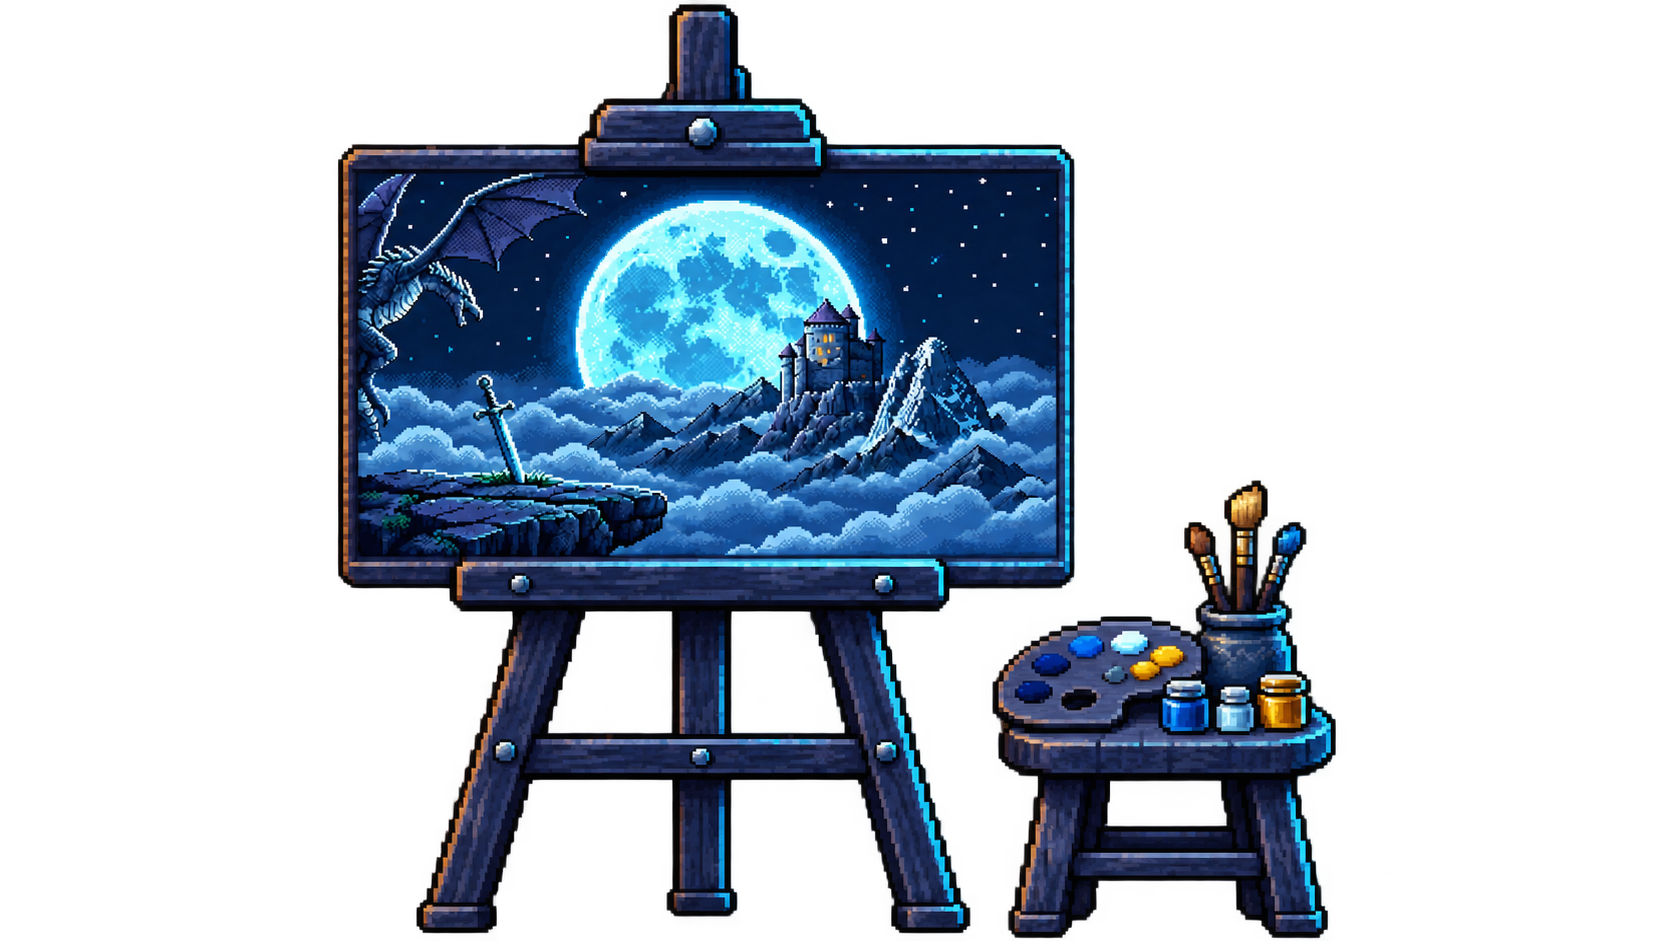
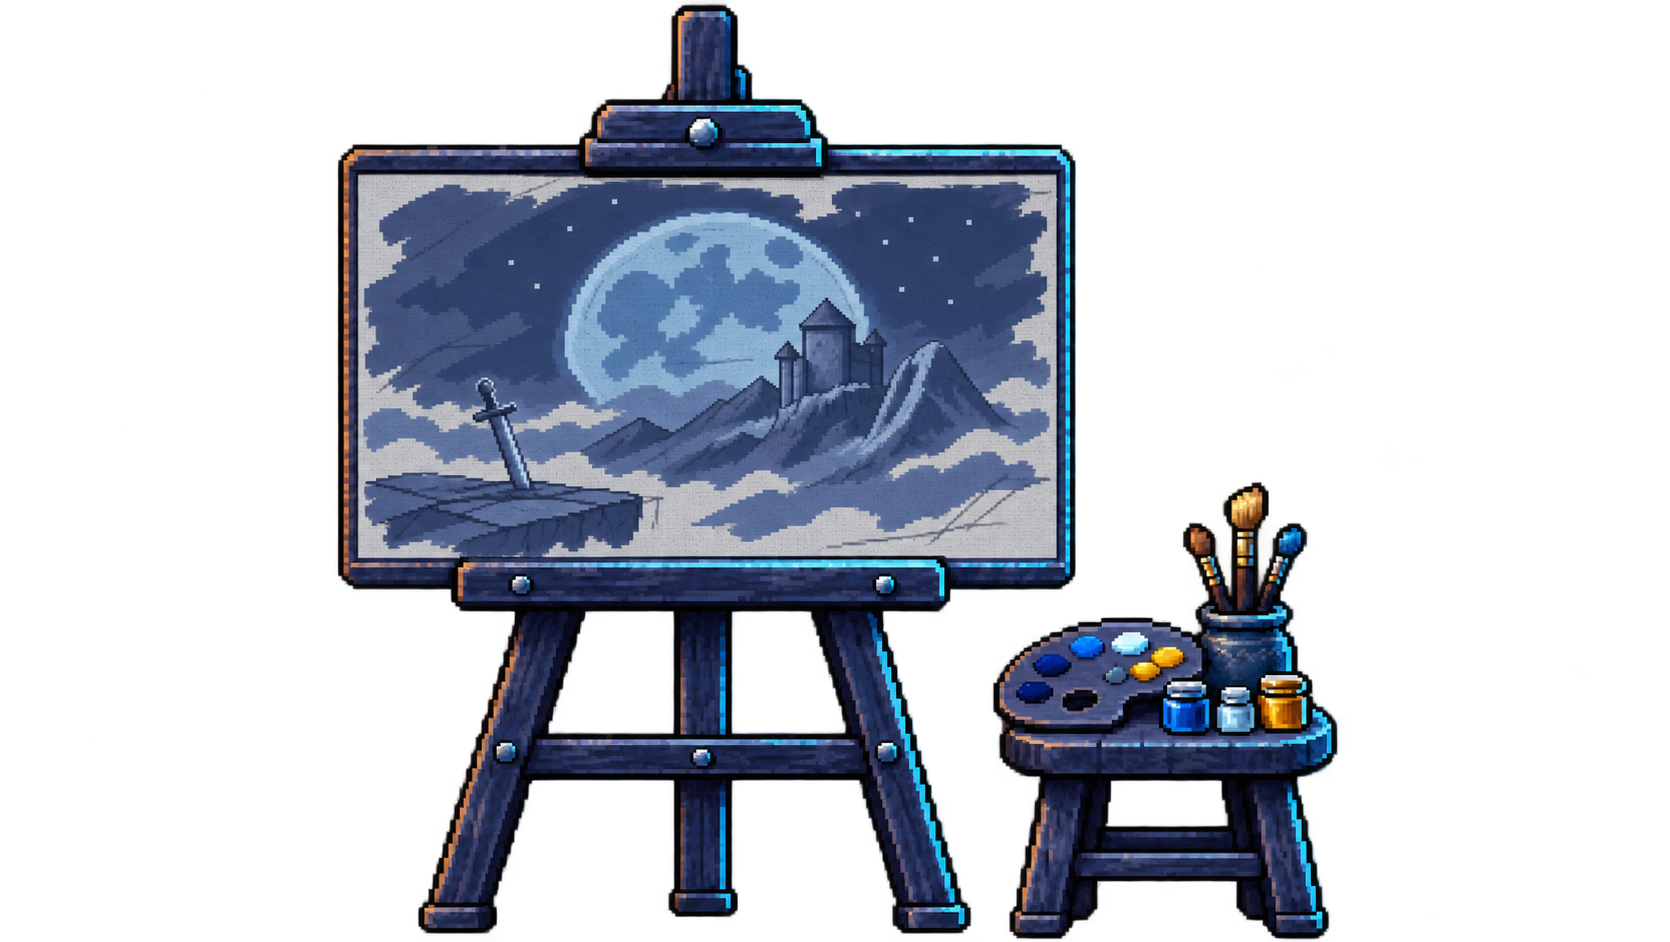
more props added

diff --git a/styles.css b/styles.css
@@ -321,11 +321,13 @@ canvas:focus-visible { outline: 3px solid #ffe092; outline-offset: -3px; }
   width: var(--balcony-width);
   aspect-ratio: 1672 / 1197;
   transform: translateX(-50%);
+  isolation: isolate;
 }
 .moonlit-balcony::before,
 .moonlit-balcony::after {
   content: "";
   position: absolute;
+  z-index: -1;
   bottom: 0;
   width: var(--edge-width);
   height: 100%;
@@ -370,6 +372,55 @@ canvas:focus-visible { outline: 3px solid #ffe092; outline-offset: -3px; }
   height: auto;
   image-rendering: pixelated;
   pointer-events: none;
+}
+.moonlit-furnishing {
+  position: absolute;
+  height: auto;
+  image-rendering: pixelated;
+  pointer-events: none;
+}
+.moonlit-lion-banner {
+  left: -11.90%;
+  top: 25.24%;
+  width: 13.20%;
+}
+.moonlit-ground-prop {
+  top: 76.2%;
+}
+.moonlit-ground-prop::before {
+  content: "";
+  position: absolute;
+  top: 0;
+  inset-inline: var(--shadow-inset);
+  aspect-ratio: 10;
+  transform: translateY(-50%);
+  background: radial-gradient(ellipse, #010616c9, transparent 72%);
+}
+.moonlit-ground-prop img {
+  position: absolute;
+  top: 0;
+  left: 0;
+  width: 100%;
+  height: auto;
+  transform: translateY(calc(-1 * var(--sprite-base)));
+}
+.moonlit-supply-chest {
+  --sprite-base: 87.9%;
+  --shadow-inset: 12%;
+  left: -11.54%;
+  width: 13.07%;
+}
+.moonlit-map-table {
+  --sprite-base: 98.6%;
+  --shadow-inset: 8%;
+  left: 59.54%;
+  width: 22.82%;
+}
+.moonlit-ivy-planter {
+  --sprite-base: 78.8%;
+  --shadow-inset: 22%;
+  left: 95.06%;
+  width: 18.38%;
 }
 .moonlit-scraps {
   position: absolute;
@@ -428,30 +479,47 @@ canvas:focus-visible { outline: 3px solid #ffe092; outline-offset: -3px; }
   pointer-events: none;
 }
 .moonlit-prop::before,
-.moonlit-prop::after {
-  content: "";
+.moonlit-prop-glow,
+.moonlit-prop-glow::before {
   position: absolute;
   inset: 0;
 }
 .moonlit-prop::before {
+  content: "";
   clip-path: var(--prop-silhouette);
   pointer-events: auto;
+  cursor: pointer;
 }
-.moonlit-prop::after {
+.moonlit-prop-glow {
+  pointer-events: none;
+  filter: drop-shadow(0 0 5px var(--glow-color)) drop-shadow(0 0 13px var(--glow-color));
+  opacity: .75;
+}
+.moonlit-prop-glow::before {
+  content: "";
   clip-path: var(--prop-highlight);
-  background: radial-gradient(ellipse at var(--glow-center), var(--glow-color), transparent 41%),
+  background: radial-gradient(ellipse at var(--glow-center), var(--glow-tint), transparent 41%),
     var(--prop-art) center / 100% 100% no-repeat;
-  filter: brightness(1.28);
-  opacity: 0;
-  transition: opacity 180ms ease-out;
+  filter: brightness(1.45);
+  transition: filter 180ms ease-out;
 }
-.moonlit-prop:is(:hover, :focus-visible)::after { opacity: 1; }
+.moonlit-prop:is(:hover, :focus-visible) .moonlit-prop-glow::before { filter: brightness(1.7); }
+@media (prefers-reduced-motion: no-preference) {
+  .moonlit-world[open] .moonlit-prop-glow {
+    animation: moonlit-prop-glow 2.8s ease-in-out var(--glow-delay, 0s) infinite;
+  }
+}
+@keyframes moonlit-prop-glow {
+  0%, 100% { opacity: .48; }
+  50% { opacity: 1; }
+}
 .moonlit-sketchbook {
   --prop-art: url("assets/moonlit/sketchbook-lectern.png");
   --prop-silhouette: polygon(32% 12%, 43% 10%, 78% 13%, 79% 19%, 68% 42%, 60% 47%, 58% 73%, 64% 82%, 65% 86%, 59% 90%, 31% 90%, 31% 83%, 39% 78%, 40% 49%, 33% 42%, 21% 40%, 21% 36%);
   --prop-highlight: polygon(37% 15%, 46% 14.7%, 53% 17%, 59% 15.4%, 68% 16.3%, 71% 17.4%, 68% 24%, 64% 35.5%, 53% 35.4%, 46% 36.3%, 42% 34.7%, 28% 34.5%, 30% 28%);
   --glow-center: 50% 25%;
-  --glow-color: #ffd68742;
+  --glow-color: #ffce70;
+  --glow-tint: #ffd68775;
   left: 24.3%;
   top: 76%;
   width: 12.1%;
@@ -463,7 +531,9 @@ canvas:focus-visible { outline: 3px solid #ffe092; outline-offset: -3px; }
   --prop-silhouette: polygon(20% 15%, 35% 15%, 35% 11%, 40% 10%, 40% 0%, 44% 0%, 45% 10%, 49% 11%, 50% 15%, 65% 15%, 65% 61%, 56% 64%, 58% 99%, 25% 99%, 29% 65%, 27% 64%, 27% 62%, 20% 62%);
   --prop-highlight: inset(18.2% 36.8% 40.8% 21.4%);
   --glow-center: 43% 36%;
-  --glow-color: #66d9ff40;
+  --glow-color: #62dfff;
+  --glow-tint: #66d9ff80;
+  --glow-delay: -1.4s;
   left: 36.5%;
   top: 77.4%;
   width: 24.2%;
@@ -472,14 +542,13 @@ canvas:focus-visible { outline: 3px solid #ffe092; outline-offset: -3px; }
   border: 0;
   transform: translate(-42.2%, -100%);
 }
-.moonlit-easel::before { cursor: pointer; }
 .moonlit-easel:focus-visible { outline: 2px solid #ffdaa1; outline-offset: -2px; }
 @media (max-aspect-ratio: 1/1) {
   .moonlit-sketchbook { left: calc(25vw - var(--balcony-left)); }
   .moonlit-easel { left: calc(61vw - var(--balcony-left)); }
 }
 @media (prefers-reduced-motion: reduce) {
-  .moonlit-prop::after { transition: none; }
+  .moonlit-prop-glow::before { transition: none; }
 }
 #moonlit-knight {
   position: absolute;

diff --git a/index.html b/index.html
@@ -73,12 +73,26 @@
         </div>
         <canvas id="moonlit-floor" width="1672" height="256" aria-hidden="true"></canvas>
         <img class="moonlit-carpet" src="assets/moonlit/balcony-carpet.png" width="2172" height="724" alt="">
+        <img class="moonlit-furnishing moonlit-lion-banner" src="assets/moonlit/lion-banner.png" width="1024" height="1536" alt="">
+        <div class="moonlit-furnishing moonlit-ground-prop moonlit-supply-chest">
+          <img src="assets/moonlit/supply-chest.png" width="1536" height="1024" alt="">
+        </div>
+        <div class="moonlit-furnishing moonlit-ground-prop moonlit-map-table">
+          <img src="assets/moonlit/mapmakers-table.png" width="1961" height="802" alt="">
+        </div>
+        <div class="moonlit-furnishing moonlit-ground-prop moonlit-ivy-planter">
+          <img src="assets/moonlit/ivy-planter.png" width="1536" height="1024" alt="">
+        </div>
         <button class="moonlit-scraps" type="button" aria-label="Walk to the scattered papers and view the castle reference assets" aria-haspopup="dialog">
           <span></span><span></span><span></span>
           <span></span><span></span><span></span>
         </button>
-        <div class="moonlit-prop moonlit-sketchbook" role="img" aria-label="Open castle sketchbook on a stone lectern"></div>
-        <button class="moonlit-prop moonlit-easel" type="button" aria-label="Walk to the painting stand and view the parchment photos" aria-haspopup="dialog"></button>
+        <div class="moonlit-prop moonlit-sketchbook" role="img" aria-label="Open castle sketchbook on a stone lectern">
+          <span class="moonlit-prop-glow" aria-hidden="true"></span>
+        </div>
+        <button class="moonlit-prop moonlit-easel" type="button" aria-label="Walk to the painting stand and view the parchment photos" aria-haspopup="dialog">
+          <span class="moonlit-prop-glow" aria-hidden="true"></span>
+        </button>
         <canvas id="moonlit-knight" width="1672" height="1197" aria-hidden="true"></canvas>
       </div>
       <p id="moonlit-controls" class="sr-only">Click or tap the balcony floor or use the arrow keys or W, A, S, and D to move the knight. Select the painting stand to view the parchment photos, or select the scattered papers to view the reference assets. Press Escape to return to the museum.</p>

diff --git a/moonlit-knight.js b/moonlit-knight.js
@@ -18,6 +18,7 @@
   const props = [
     { element: balcony.querySelector('.moonlit-sketchbook'), base: [.31, .65, .897], approach: .48 },
     { element: easel, base: [.25, .80, 1], approach: .42 },
+    { element: balcony.querySelector('.moonlit-map-table img'), base: [.11, .89, .986], approach: .5 },
   ];
   const knight = { x: 836, y: spawnY, facing: 1, back: false, walkTime: 0 };
   let limits = floor;
